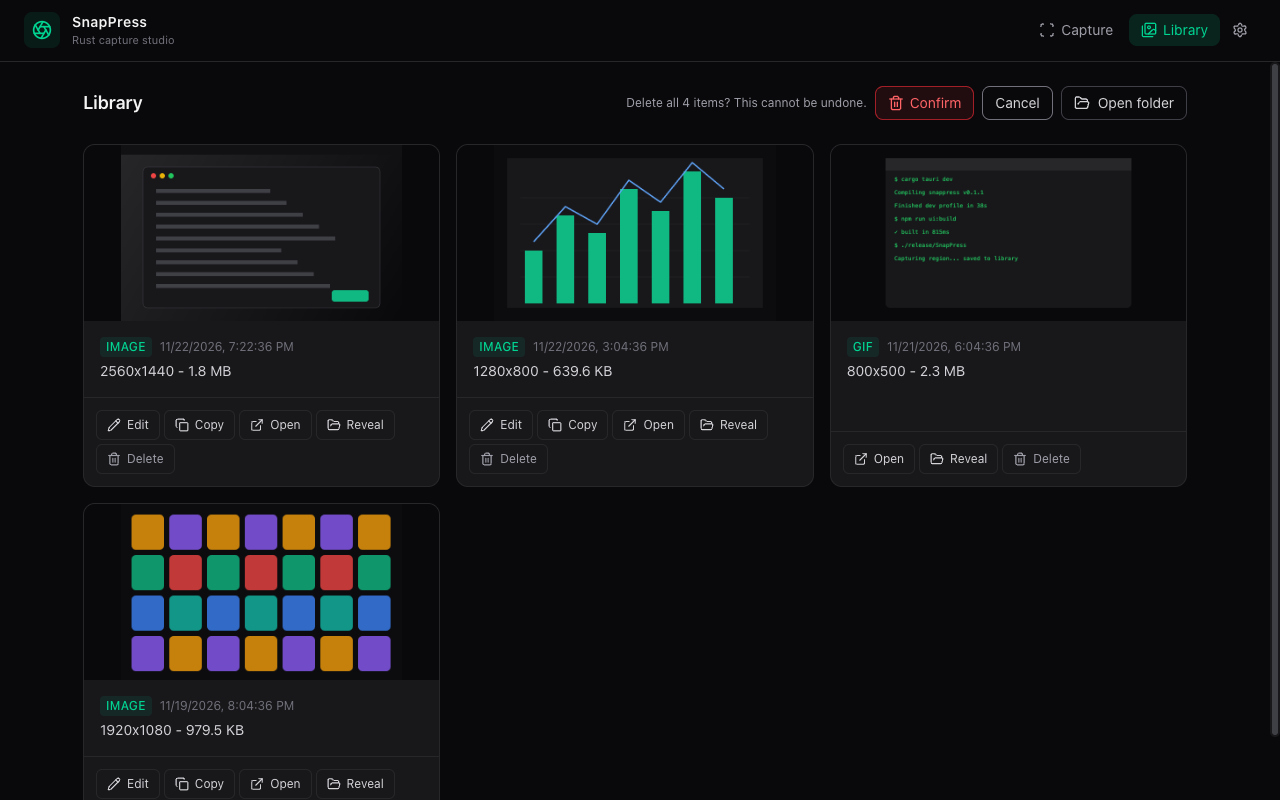
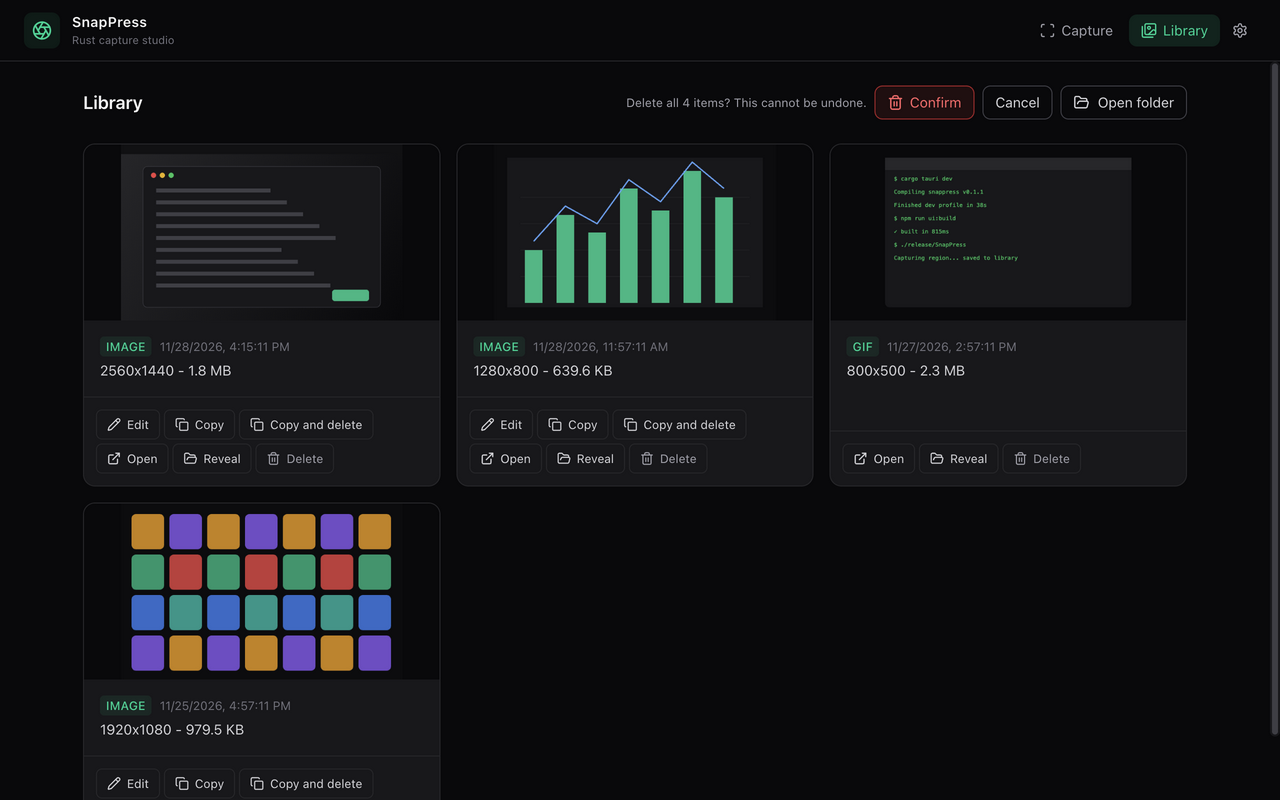
Document "Copy and delete"; refresh the editor and library screenshots
The editor header and the library cards gained a button, so their
screenshots show the current UI again.

diff --git a/README.md b/README.md
@@ -10,8 +10,8 @@ rebuilt in Rust with Tauri 2 for **Windows** and **macOS**.
 - Screen recording to MP4 (H.264) with GIF export from the library
 - Built-in annotation editor (arrows, shapes, pen, text, blur/pixelate, numbered
   steps, highlight, crop, undo/redo)
-- Capture library with thumbnails, clipboard copy, reveal-in-folder, delete-all
-  and auto-delete after a configurable period
+- Capture library with thumbnails, clipboard copy, copy-and-delete,
+  reveal-in-folder, delete-all and auto-delete after a configurable period
 - Global hotkeys plus a system tray menu; the main window hides to tray on close
 
 ## Screenshots
@@ -151,6 +151,12 @@ pixelate are implemented with double `drawImage` down/up-scaling (no
 `ctx.filter`, which macOS WebKit does not support). The base image is loaded
 through `read_image_base64` so the canvas never becomes tainted, which keeps
 PNG/JPEG export working. Exports are saved back into the library as new items.
+
+**Copy and delete** (in the editor and on library cards) copies a capture to
+the clipboard and removes it from the library in one step, for captures that
+are only meant to be pasted somewhere. In the editor it copies straight from
+the canvas, so no edited copy is kept. The capture is deleted only once the
+image is on the clipboard.
 
 ## Settings
 
